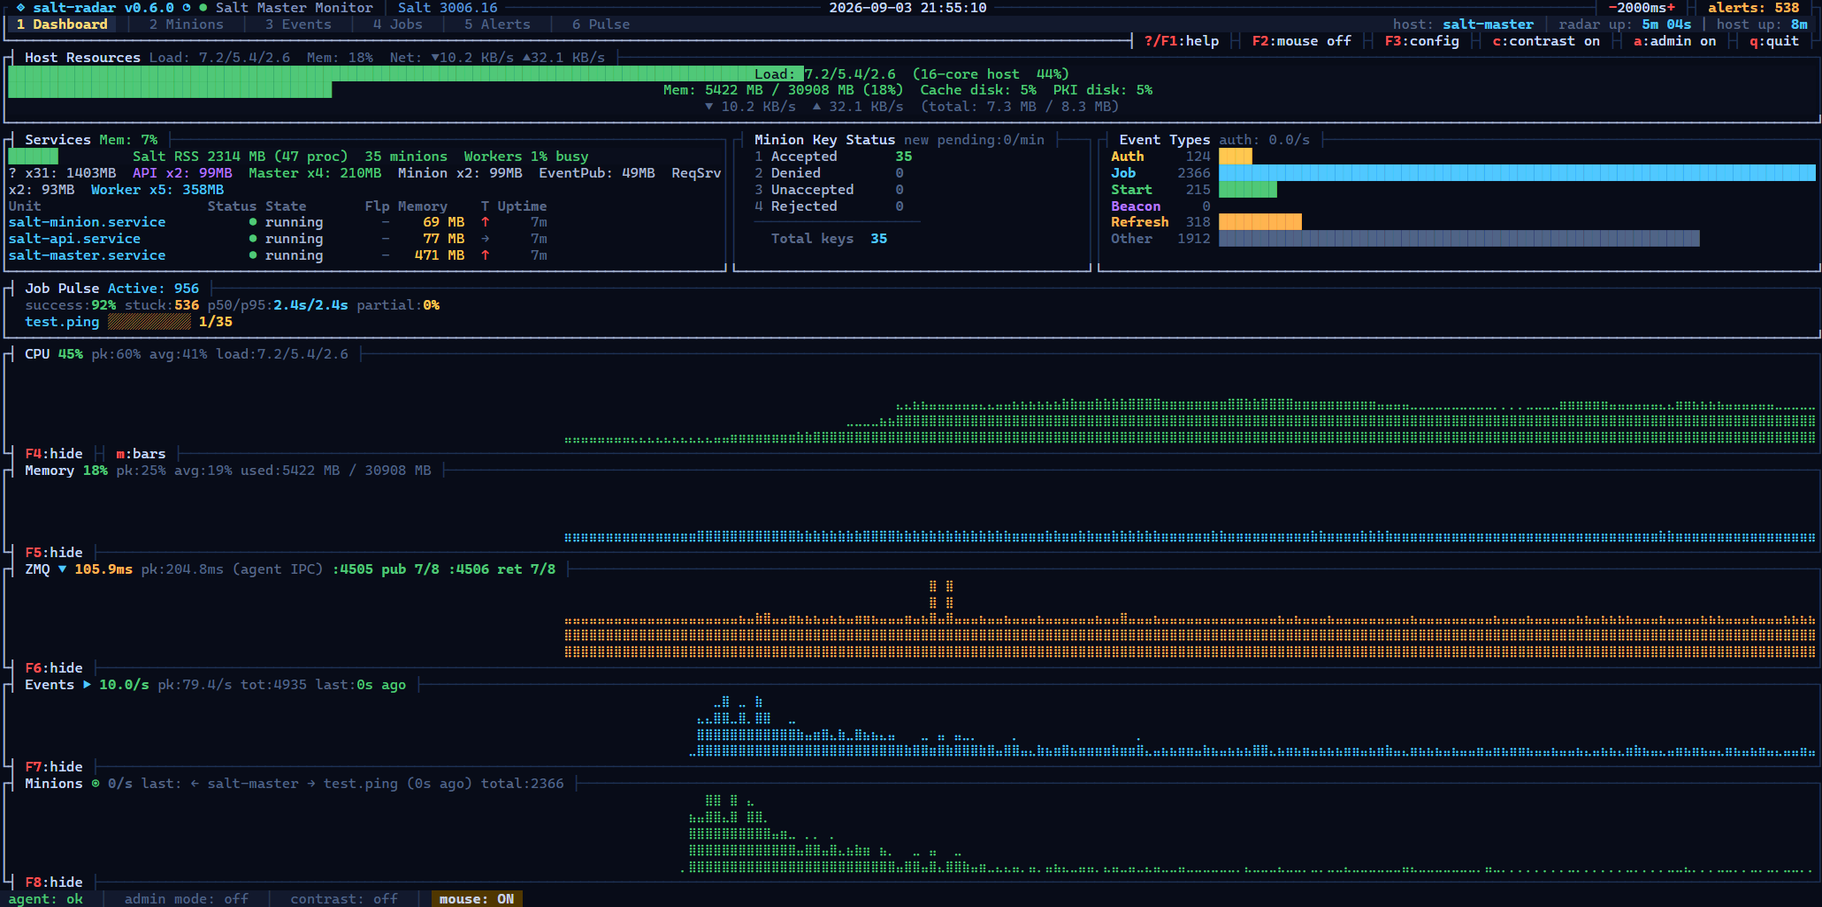
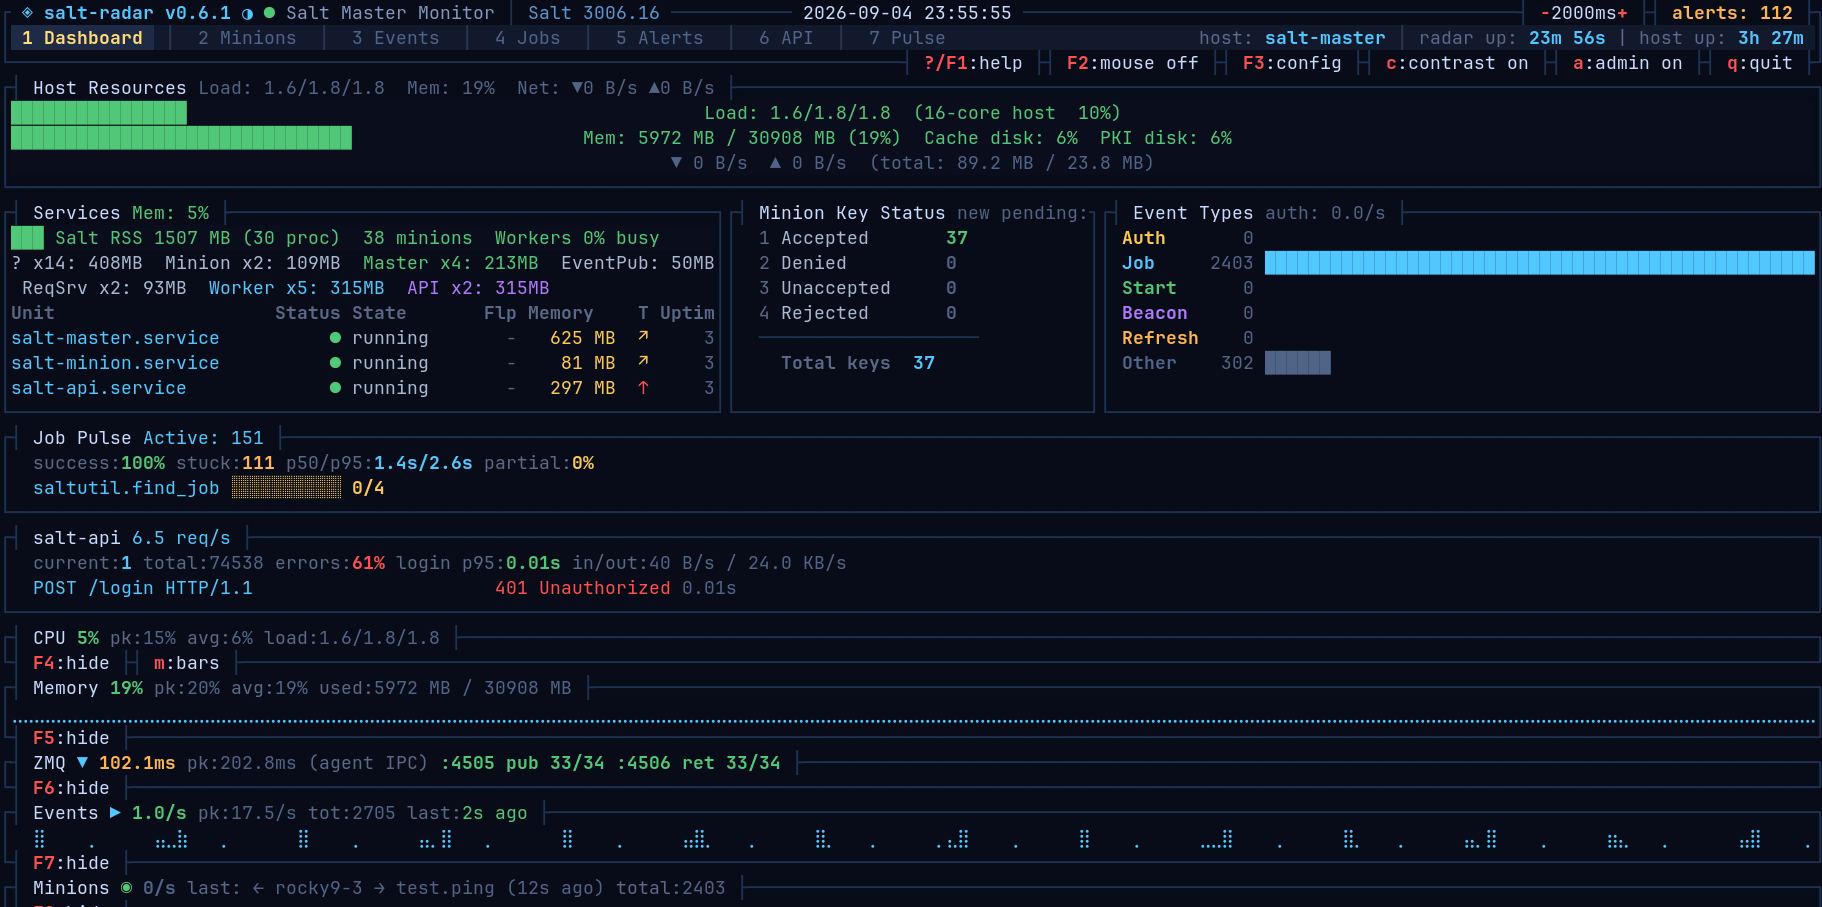
chore: release v0.6.1
Folds v0.6.1-rc1 through rc8 plus this dev cycle's salt-api/API-tab
config exposure, popup label-padding fix, and tab reorder into a
single dated CHANGELOG entry — a straight linear build, so each item
is described once as it stands today rather than through its RC
history.

Also refreshes README screenshots for every tab (including a new one
for the API tab), fixes stale doc references (alert rule count,
missing api_view.rs in the project structure, tab-jump key order), and
bumps the crate version to 0.6.1.

Claude-Session: https://claude.ai/code/session_0112kxj3GTd3ysSUBhxEf4Zs

Changed region(s): [[0.0, 0.0, 1.0, 1.0]]

diff --git a/CHANGELOG.md b/CHANGELOG.md
@@ -7,14 +7,28 @@ and this project adheres to [Semantic Versioning](https://semver.org/spec/v2.0.0
 
 ## [Unreleased]
 
+## [0.6.1] - 2026-09-05
+
+This release folds in `v0.6.1-rc1` through `v0.6.1-rc8`, plus the
+salt-api/API-tab config exposure, a detail-popup label-padding fix, and
+the API/Pulse tab reorder that landed after rc8. Unlike the v0.6.0
+range, this one is a straight linear build — no RC in this range
+reworked or reverted something an earlier RC in the same range had
+already shipped, so every item below is described once, as it stands
+today.
+
 ### Added
-- Dashboard: a `salt-api` panel, shown only when a `salt-api` process is detected — request rate, in-flight/total request counts, and the most recent request per worker thread (path, status, timing), polled from salt-api's own built-in in-memory request-stats endpoint (CherryPy's `cpstats`, exposed at `GET /stats`) rather than any log file. Needs `rest_cherrypy: {collect_stats: True, stats_disable_auth: True}` in the master config; the panel explains that when the endpoint isn't reachable. This is a different mechanism from `log_level`/access logging — cpstats records only the request line (method+path), never the body, so nothing captures credentials sent in a POST body (e.g. `/login`), and nothing is ever written to disk. `stats_disable_auth` is required because salt-radar's agent never handles or stores salt-api auth tokens — see README for details.
-- salt-api panel: request error rate (rolling % of non-2xx/3xx) and `POST /login` p50/p95 latency, tracked by salt-radar itself from cpstats' per-thread snapshots since cpstats has no cumulative error or per-endpoint-latency counters of its own. The panel's request-rate figure is also now a real recent rate (computed from the delta between polls) instead of cpstats' own `Requests/Second`, which is a lifetime average since salt-api started and barely moves once the server's been up more than a few minutes.
-- New alert rule: API auth latency — fires when salt-api's `POST /login` p95 crosses `api_auth_latency_warn_secs` (default 3.0s), a common early symptom of PAM/LDAP/eauth backend trouble.
-- New **API** tab (`7`): a live, in-memory request log (age, method, client, path, status, timing — filterable by `/`) and a per-endpoint breakdown (count, avg/p95 latency, error rate), both built by salt-radar itself from cpstats' per-thread snapshots — cpstats has no request log or per-endpoint history of its own. Best-effort: only the latest request per CherryPy worker thread is ever visible per poll, so a thread completing more than one request between polls means the earlier one is missed. Shows the same "not reachable" guidance as the Dashboard panel when `collect_stats`/`stats_disable_auth` aren't set. `Enter` opens a detail popup (full request line including query string, client, status, processing time, `y` to copy) — cpstats never gives us more than that: no request/response body, no headers, so no credentials, payload content, or Salt-level context (which minion/job/user) is ever visible.
-- The request log is bounded two ways, not just by count: capped at 1000 entries, and entries older than 1 hour are pruned every poll regardless of how full the log is, so a quiet API doesn't let it hold onto hours-old requests. Eviction correctly shifts the current selection so it keeps pointing at the same logical entry, the same correction already made for the Events buffer's own eviction.
+- Dashboard: a `salt-api` panel, shown only when a `salt-api` process is detected — request rate, error rate, `POST /login` p50/p95 latency, in-flight/total request counts, and the most recent request per worker thread (path, status, timing), polled from salt-api's own built-in in-memory request-stats endpoint (CherryPy's `cpstats`, exposed at `GET /stats`) rather than any log file. Needs `rest_cherrypy: {collect_stats: True, stats_disable_auth: True}` in the master config; the panel explains that when the endpoint isn't reachable. This is a different mechanism from `log_level`/access logging — cpstats records only the request line (method+path), never the body, so nothing captures credentials sent in a POST body (e.g. `/login`), and nothing is ever written to disk. `stats_disable_auth` is required because salt-radar's agent never handles or stores salt-api auth tokens — see README for details. Request rate and error rate/login latency are tracked by salt-radar itself, since cpstats only exposes a lifetime-average rate and a live per-thread snapshot, not cumulative error/latency counters of its own.
+- New alert rule: API auth latency — fires when salt-api's `POST /login` p95 crosses `api_auth_latency_warn_secs` (default 3.0s), a common early symptom of PAM/LDAP/eauth backend trouble. Total alert rule count: 14.
+- New **API** tab (`6`): a live, in-memory request log (age, method, client, path, status, timing — filterable by `/`) and a per-endpoint breakdown (count, avg/p95 latency, error rate), both built by salt-radar itself from cpstats' per-thread snapshots — cpstats has no request log or per-endpoint history of its own. Best-effort: only the latest request per CherryPy worker thread is ever visible per poll, so a thread completing more than one request between polls means the earlier one is missed. Shows the same "not reachable" guidance as the Dashboard panel when `collect_stats`/`stats_disable_auth` aren't set. `Enter` opens a detail popup (full request line including query string, client, status, processing time, `y` to copy) — cpstats never gives us more than that: no request/response body, no headers, so no credentials, payload content, or Salt-level context (which minion/job/user) is ever visible.
+- New `[api]` config section (and Config Editor entries): `stats_window` (rolling request count backing the salt-api panel's error-rate/login-latency figures, default 200), `log_cap` (API tab request log cap, default 1000), and `log_max_age_secs` (API tab request log age prune, default 3600). The request log is bounded by both: capped at `log_cap` entries, and entries older than `log_max_age_secs` are pruned every poll regardless of how full the log is, so a quiet API doesn't let it hold onto hours-old requests. Eviction correctly shifts the current selection so it keeps pointing at the same logical entry, the same correction already made for the Events buffer's own eviction.
+- README screenshots refreshed for every tab, including a new one for the API tab.
+
+### Changed
+- Reordered tabs: **API** is now `6` and **Pulse** is `7` (previously the reverse).
 
 ### Fixed
+- API Request detail popup: the "Full request line" label ran directly into its value with no gap — the shared detail-row label padding was fixed at 16 columns, one short of this label's own 17-character length, so ratatui's left-pad (which only pads shorter strings, never truncates longer ones) added nothing. Padding is now 20 columns.
 - API tab's request log columns ran together once an entry's age grew past its fixed column width (an un-truncated, ever-growing field silently misaligning everything after it) — the same bug class already fixed for Event Types/Fleet Overview; every field in that row is now truncation-safe.
 - salt-api panel's `in/out` bytes-per-second line showed a doubled `/s` suffix (`0 B/s/s`) — `format_bytes` already appends it.
 - Typing (or pasting) into the Live Jobs/Events filter box could take ages to keep up on a master with a large accepted-key roster (e.g. thousands of leftover test minions never cleaned up by autoclean) — every keystroke redraws the filtered list, and each of those redraws rebuilt a fresh `HashSet` of every accepted minion ID from scratch, once per visible row, to check whether the filter text matched a known minion ID. On a master with thousands of keys, a pasted JID (delivered as a burst of individual keystrokes, since there's no bracketed-paste handling) could take well over a minute to finish filtering. The accepted-ID set is now kept up to date whenever the key list refreshes instead of being rebuilt on every filter check.

diff --git a/README.md b/README.md
@@ -51,17 +51,25 @@ No database, no web server, no JavaScript. Just a single binary and a Python age
 </td>
 <td width="50%">
 
-**Alerts** — 13 rules covering minion staleness, keys, service health, memory, disk, jobs, and auth
+**Alerts** — 14 rules covering minion staleness, keys, service health, memory, disk, jobs, auth, and API latency
 <img src="docs/screenshots/alerts.png" alt="Alerts tab">
 
 </td>
 </tr>
-<tr><td colspan="2">
+<tr>
+<td width="50%">
+
+**API** — live salt-api request log and per-endpoint breakdown, built from cpstats
+<img src="docs/screenshots/api.png" alt="API tab">
+
+</td>
+<td width="50%">
 
 **Pulse** — per-minion return activity at a glance, with connection detail on the side
 <img src="docs/screenshots/pulse.png" alt="Pulse tab">
 
-</td></tr>
+</td>
+</tr>
 </table>
 
 ## Features
@@ -135,7 +143,7 @@ Shown only once salt-api's `/stats` is reachable (see Dashboard above for the `c
 - Live request log — age, method, client, path, status, timing — built by salt-radar itself from cpstats' per-thread snapshots (filterable by `/`); `Enter` opens a detail popup with the full request line (query string included), client, status, and processing time
 - Per-endpoint breakdown — request count, avg/p95 latency, error rate, grouped by method+path
 - Best-effort, not a complete record: cpstats only ever exposes the *latest* request per CherryPy worker thread, so a thread that completes more than one request between two polls only shows the last one
-- Bounded two ways: capped at 1000 entries, and entries older than 1 hour are pruned every poll regardless of how full the log is
+- Bounded two ways, both configurable under `[api]` (`log_cap`, default 1000; `log_max_age_secs`, default 3600): capped at `log_cap` entries, and entries older than `log_max_age_secs` are pruned every poll regardless of how full the log is. The salt-api panel's own error-rate/login-latency rolling window (`stats_window`, default 200 requests) lives in the same section.
 - Only what cpstats records is ever visible: no request/response body, no headers — so no credentials, payload content, or which minion/job/user was involved
 
 ### Admin Mode
@@ -213,7 +221,7 @@ zmq_latency_source = "agent_ipc"  # or "job_ping", "master_stats"
 |-----|--------|
 | `q` | Quit |
 | `Tab` | Switch tab |
-| `1`–`7` | Jump to tab (Dashboard/Minions/Events/Jobs/Alerts/Pulse/API) |
+| `1`–`7` | Jump to tab (Dashboard/Minions/Events/Jobs/Alerts/API/Pulse) |
 | `↑`/`↓` | Scroll / navigate |
 | `PgUp`/`PgDn` | Page scroll |
 | `Enter` | Open detail popup |
@@ -333,7 +341,7 @@ src/
 ├── types.rs             # Data types (minion, event, job, alert, etc.)
 ├── config.rs            # TOML config loading
 ├── agent.rs             # Python agent subprocess management
-├── alerts/              # Alert engine (13 rules: staleness, keys, services, memory, disk, jobs, auth)
+├── alerts/              # Alert engine (14 rules: staleness, keys, services, memory, disk, jobs, auth, api)
 ├── collectors/          # OS-level data collection
 │   ├── keys.rs          # PKI key file parsing
 │   ├── processes.rs     # /proc scanning for salt processes
@@ -347,6 +355,7 @@ src/
     ├── events.rs        # Events tab
     ├── jobs.rs          # Jobs tab
     ├── alerts_view.rs   # Alerts tab
+    ├── api_view.rs      # API tab
     ├── pulse.rs         # Pulse tab
     ├── minion_events.rs # Per-minion event/return history popup
     ├── config_editor.rs # In-app config editor (F3)
